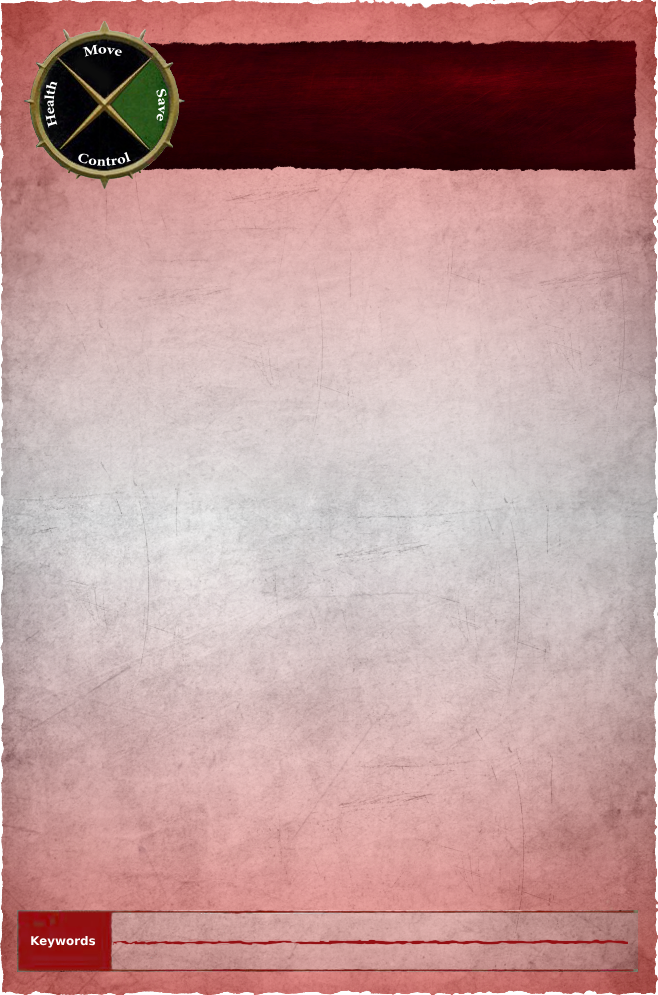
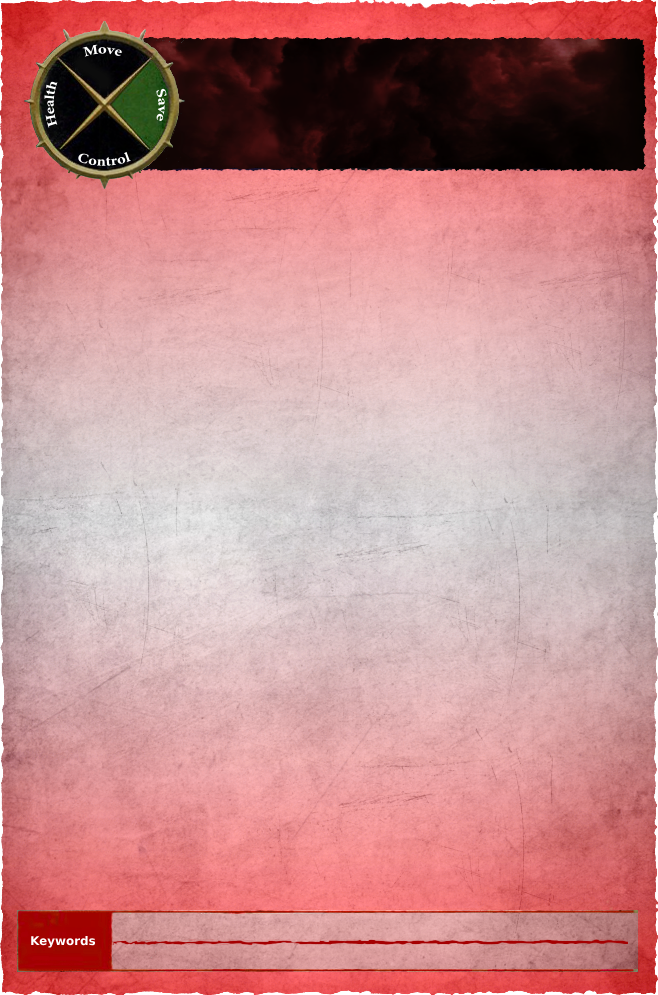
Added Khorne and Sons of Hashut warscroll template
Fixed a bug with ability keywords didn't draw as intended

Changed region(s): [[0.0, 0.0, 1.0, 0.2181], [0.0, 0.8412, 1.0, 1.0]]

diff --git a/aoswarscrollcreator/src/components/GrandAlliances/FactionTemplateLinks.tsx b/aoswarscrollcreator/src/components/GrandAlliances/FactionTemplateLinks.tsx
@@ -21,7 +21,7 @@ export enum FactionBanners {
   Skaven = "99",
   SlavesToDarkness = "111",
   SonsOfBehemat = "222",
-  SonsOfHashut = "Dawi Zharr",
+  SonsOfHashut = "src/assets/FactionBackgrounds/Chaos/Hashut/SonsOfHashut_Weapon_Banner.png",
   SoulblightGravelords = "333",
   StormcastEternals = "src/assets/FactionBackgrounds/Order/Stormcast/Stormcast_Weapon_Banner.png",
   Sylvaneth = "444",
@@ -78,7 +78,7 @@ export enum FactionTemplates {
   Skaven = "99",
   SlavesToDarkness = "111",
   SonsOfBehemat = "222",
-  SonsOfHashut = "Dawi Zharr",
+  SonsOfHashut = "src/assets/FactionBackgrounds/Chaos/Hashut/SonsOfHashut_Warscroll_Template.png",
   SoulblightGravelords = "333",
   StormcastEternals = "src/assets/FactionBackgrounds/Order/Stormcast/Stormcast_Warscroll_Template.png",
   Sylvaneth = "444",

diff --git a/aoswarscrollcreator/src/components/GrandAlliances/GrandAlliances.tsx b/aoswarscrollcreator/src/components/GrandAlliances/GrandAlliances.tsx
@@ -164,7 +164,11 @@ export default function GrandAlliances() {
             <Button
               color="primary"
               sx={{ m: buttonMargin }}
-              onClick={() => dispatch(setFactionName(FactionNames.SonsOfHashut))}
+              onClick={() => {
+                dispatch(setFactionName(FactionNames.SonsOfHashut));
+                dispatch(setFactionTemplate(FactionTemplates.SonsOfHashut));
+                dispatch(setFactionWeaponBanner(FactionBanners.SonsOfHashut));
+              }}
             >
               <Typography variant="body2">{FactionNames.SonsOfHashut}</Typography>
             </Button>

diff --git a/aoswarscrollcreator/src/components/WarscrollCard/WarscrollUtils.tsx b/aoswarscrollcreator/src/components/WarscrollCard/WarscrollUtils.tsx
@@ -365,7 +365,7 @@ export const drawAbilitiesOnCanvas = (
           yOffset += offset;
         }
         if (abilities[i]?.effect_desc.length > 0) {
-          getTextHeight(
+          const offset = getTextHeight(
             ctx,
             abilities[i]?.effect_desc,
             boxWidth,
@@ -374,6 +374,7 @@ export const drawAbilitiesOnCanvas = (
             true,
             "Effect: "
           );
+          yOffset += offset - 20;
         }
 
         // Handle the ability type icon
